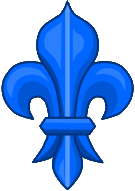
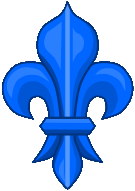
Sync background pattern grid (220px/110px) site-wide

diff --git a/planning.html b/planning.html
@@ -27,6 +27,21 @@
             line-height: 1.8;
         }
 
+        body::before {
+            content: '';
+            position: fixed;
+            top: 0;
+            left: 0;
+            width: 100%;
+            height: 100%;
+            background-image: url('farnesefleur.png'), url('farnesefleur.png');
+            background-position: 0 0, 110px 110px;
+            background-size: 220px 220px;
+            opacity: 0.04;
+            pointer-events: none;
+            z-index: -1;
+        }
+
         /* Google Translate Widget Hiding */
         .goog-te-banner-frame, .goog-te-gadget { display: none !important; }
         body { top: 0 !important; }

diff --git a/history.html b/history.html
@@ -27,6 +27,21 @@
             line-height: 1.8;
             -webkit-font-smoothing: antialiased;
         }
+
+        body::before {
+            content: '';
+            position: fixed;
+            top: 0;
+            left: 0;
+            width: 100%;
+            height: 100%;
+            background-image: url('farnesefleur.png'), url('farnesefleur.png');
+            background-position: 0 0, 110px 110px;
+            background-size: 220px 220px;
+            opacity: 0.04;
+            pointer-events: none;
+            z-index: -1;
+        }
         .goog-te-menu-value img {
             display: none !important;
         }

diff --git a/index.html b/index.html
@@ -32,6 +32,21 @@
             overflow-x: hidden;
         }
 
+        body::before {
+            content: '';
+            position: fixed;
+            top: 0;
+            left: 0;
+            width: 100%;
+            height: 100%;
+            background-image: url('farnesefleur.png'), url('farnesefleur.png');
+            background-position: 0 0, 110px 110px;
+            background-size: 220px 220px;
+            opacity: 0.04;
+            pointer-events: none;
+            z-index: -1;
+        }
+
         .goog-te-banner-frame, .goog-te-gadget { display: none !important; }
         body { top: 0 !important; }
 

diff --git a/map.html b/map.html
@@ -25,6 +25,21 @@
             overflow: hidden;
         }
 
+        body::before {
+            content: '';
+            position: fixed;
+            top: 0;
+            left: 0;
+            width: 100%;
+            height: 100%;
+            background-image: url('farnesefleur.png'), url('farnesefleur.png');
+            background-position: 0 0, 110px 110px;
+            background-size: 220px 220px;
+            opacity: 0.04;
+            pointer-events: none;
+            z-index: -1;
+        }
+
         .goog-te-banner-frame, .goog-te-gadget { display: none !important; }
         body { top: 0 !important; }
 

diff --git a/food.html b/food.html
@@ -27,6 +27,21 @@
             line-height: 1.8;
         }
 
+        body::before {
+            content: '';
+            position: fixed;
+            top: 0;
+            left: 0;
+            width: 100%;
+            height: 100%;
+            background-image: url('farnesefleur.png'), url('farnesefleur.png');
+            background-position: 0 0, 110px 110px;
+            background-size: 220px 220px;
+            opacity: 0.04;
+            pointer-events: none;
+            z-index: -1;
+        }
+
         /* Translation Widget */
         .goog-te-menu-value img {
             display: none !important;

diff --git a/transport.html b/transport.html
@@ -27,6 +27,21 @@
             line-height: 1.8;
         }
 
+        body::before {
+            content: '';
+            position: fixed;
+            top: 0;
+            left: 0;
+            width: 100%;
+            height: 100%;
+            background-image: url('farnesefleur.png'), url('farnesefleur.png');
+            background-position: 0 0, 110px 110px;
+            background-size: 220px 220px;
+            opacity: 0.04;
+            pointer-events: none;
+            z-index: -1;
+        }
+
         .goog-te-menu-value img {
             display: none !important;
         }
